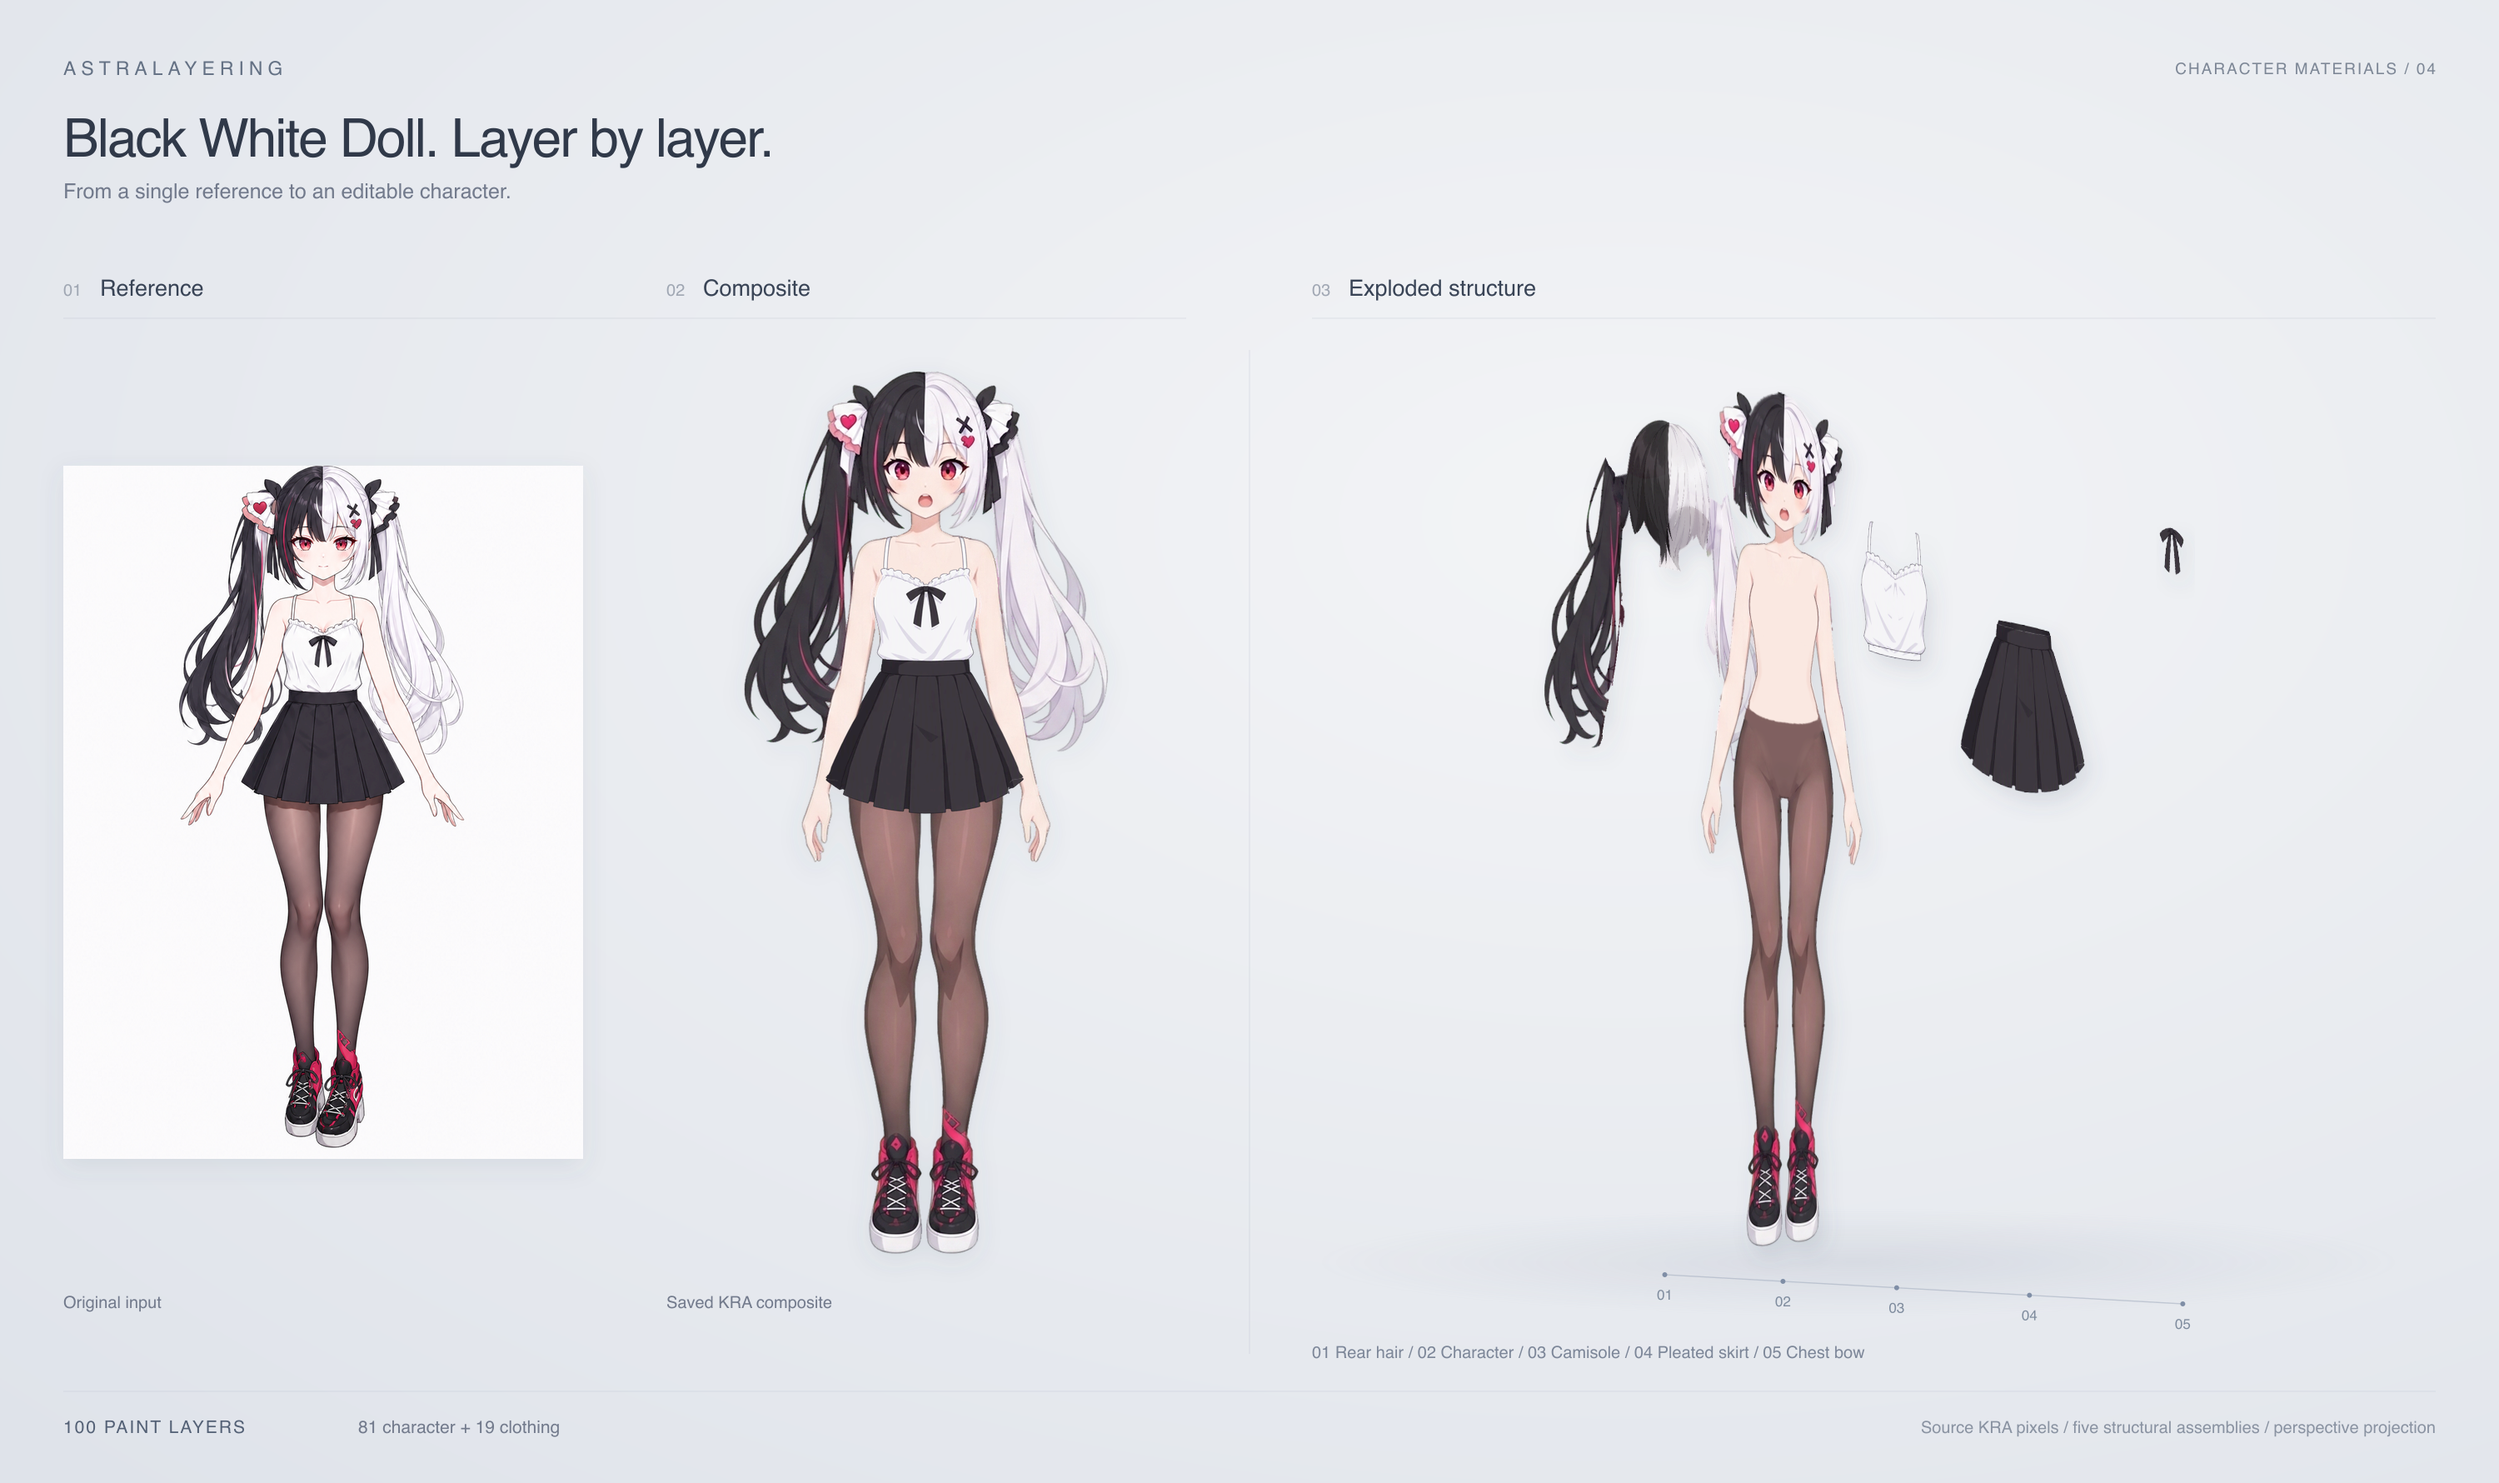
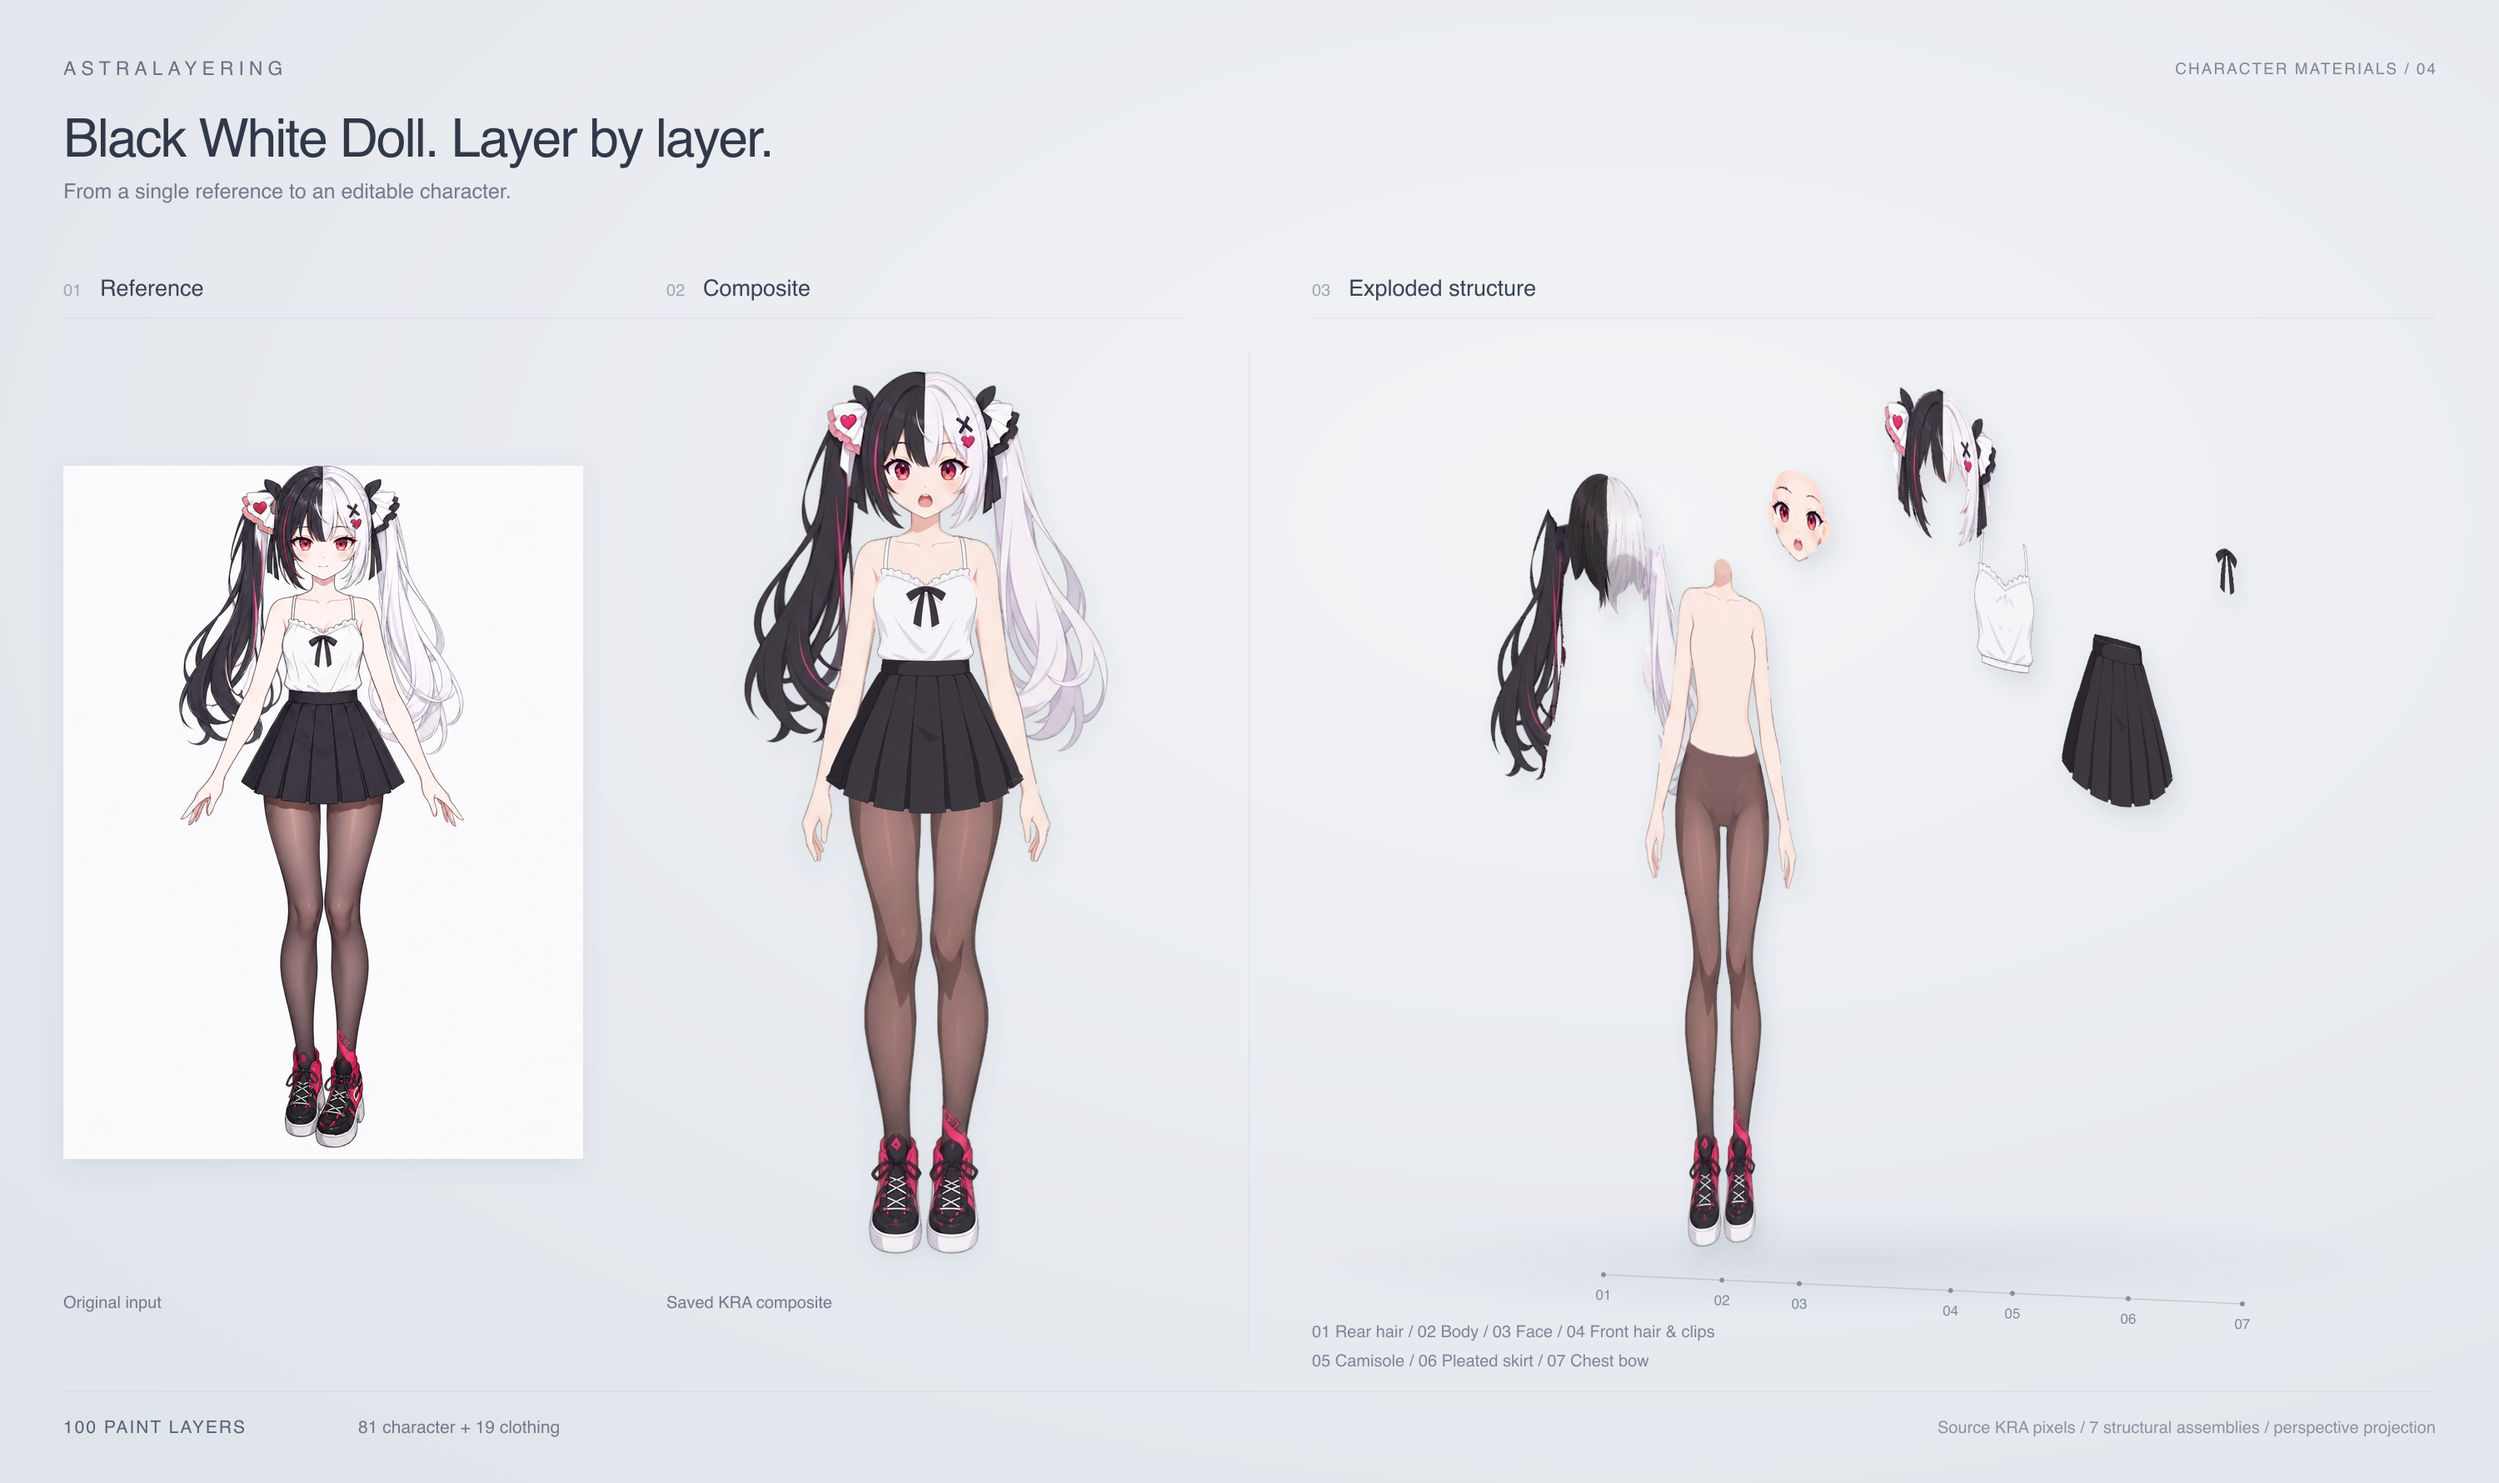
docs: separate face and front hair in exploded showcase

diff --git a/readme.md b/readme.md
@@ -6,7 +6,7 @@
 
 人物与衣服分别完成结构拆分、隐藏补全、栅格绘制和边缘修画，再组装成完整角色。新的 KRA 分层路线已完成多个完整案例，是当前成熟的素材制作方案。
 
-**每个案例从左到右：输入原图 → 完整穿戴合成 → 立体爆炸图。** 原图与合成图共占左半，爆炸图占右半，比例 **5:5**。真实 KRA 绘画层按结构组合为五组，人物姿态保持完整，头发与衣装沿统一纵深展开，通过透视和柔和投影呈现装配关系。点击图片可看大图。
+**每个案例从左到右：输入原图 → 完整穿戴合成 → 立体爆炸图。** 原图与合成图共占左半，爆炸图占右半，比例 **5:5**。真实 KRA 绘画层按案例结构组合为五至七组，沿统一纵深展开，通过透视和柔和投影呈现装配关系。Black White Doll 将脸部、前发与身体分别展开，展示独立图层的装配关系。点击图片可看大图。
 
 [![Jianma：原图、完整合成与 159 层立体拆解](showcase/jianma-reference-composite-exploded.png)](showcase/jianma-reference-composite-exploded.png)
 
@@ -22,7 +22,7 @@
 
 [![Black White Doll：原图、完整合成与 100 层立体拆解](showcase/black-white-doll-reference-composite-exploded.png)](showcase/black-white-doll-reference-composite-exploded.png)
 
-[Black White Doll](demos/black-white-doll/README.md)：姿态标准化后，组装工程包含 81 层人物与 19 层衣装，展示双马尾后发、完整人物、吊带上衣、百褶裙与胸前蝴蝶结；案例保留分层、换装及投影阴影成果。
+[Black White Doll](demos/black-white-doll/README.md)：姿态标准化后，组装工程包含 81 层人物与 19 层衣装，分七组展示双马尾后发、身体、脸部、前发与发饰、吊带上衣、百褶裙及胸前蝴蝶结；案例保留分层、换装及投影阴影成果。
 
 [全部成果与工程下载](demos/readme.md) · [Jianma 参考对照](demos/jianma/assembled/comparison.png) · [Pink Doll 标准化与组装对照](demos/pink-doll/character-assembly/step01/final-overall-comparison.jpg)
 
